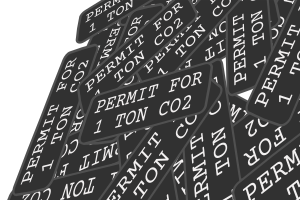
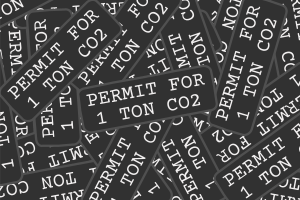
Add perspective to permit footage and move to content.

diff --git a/app/page.tsx b/app/page.tsx
@@ -38,40 +38,14 @@ export default function Home() {
               className="top-left-position"
             />
           </div>
-          <div className="stockpile-permit">
-            <div className="stockpile-container">
-              <div className="stockpile">
-                <Image
-                  src="/stockpile.svg"
-                  alt="Stockpile"
-                  width={3400}
-                  height={1913}
-                />
-              </div>
-            </div>
-            <div className="permit-footage-container">
-              <div className="permit-footage">
-                {/* Background layer - permits */}
-                <Image
-                  src="/permits.png"
-                  alt="Permit footage"
-                  width={300}
-                  height={200}
-                  className="permits-background"
-                />
-                {/* Intermediate layer - analog static/scanlines */}
-                <div className="analog-static"></div>
-                <div className="rolling-line"></div>
-                <div className="rolling-line line-2"></div>
-                {/* Foreground layer - CCTV overlay */}
-                <Image
-                  src="/permits-cctv.svg"
-                  alt="CCTV overlay"
-                  width={131}
-                  height={88}
-                  className="permits-cctv-overlay"
-                />
-              </div>
+          <div className="stockpile-container">
+            <div className="stockpile">
+              <Image
+                src="/stockpile.svg"
+                alt="Stockpile"
+                width={3400}
+                height={1913}
+              />
             </div>
           </div>
         </div>
@@ -222,6 +196,43 @@ export default function Home() {
                 Ban their CO<sub>2</sub>.<br />
                 Burn their permits.
               </h2>
+            </div>
+          </div>
+        </section>
+        <section>
+          <div className="permit-footage-container">
+            <div className="permits-closeup-container">
+              <Image
+                src="/permits-closeup.svg"
+                alt="Permits close-up"
+                width={119}
+                height={134}
+                className="permits-closeup"
+              />
+            </div>
+            <div className="permit-footage">
+              {/* Background layer - permits */}
+              <Image
+                src="/permits.png"
+                alt="Permit footage"
+                width={300}
+                height={200}
+                className="permits-background"
+              />
+              {/* Intermediate layer - vignette */}
+              <div className="vignette-overlay"></div>
+              {/* Intermediate layer - analog static/scanlines */}
+              <div className="analog-static"></div>
+              <div className="rolling-line"></div>
+              <div className="rolling-line line-2"></div>
+              {/* Foreground layer - CCTV overlay */}
+              <Image
+                src="/permits-cctv.svg"
+                alt="CCTV overlay"
+                width={131}
+                height={88}
+                className="permits-cctv-overlay"
+              />
             </div>
           </div>
         </section>

diff --git a/app/globals.css b/app/globals.css
@@ -82,6 +82,7 @@ section {
 .media {
   width: var(--smokestack-width);
   margin-top: -8px;
+  z-index: 0;
 }
 
 .media img,
@@ -96,24 +97,17 @@ section {
   left: 0;
 }
 
-.stockpile-permit {
-  position: relative;
-  width: 100%;
-  height: 2298px;
-}
-
 .stockpile-container {
-  position: absolute;
-  top: -150px;
-  left: -630px;
+  position: relative;
+  margin-top: -150px;
   width: 100%;
   display: flex;
   justify-content: center;
-  z-index: 0;
+  z-index: 99;
 }
 
 .stockpile {
-  margin-left: 1500px;
+  margin-left: 200px;
 }
 
 .stockpile img {
@@ -584,12 +578,35 @@ section {
   }
 }
 
+/* explainer: burn the permits */
+.burn-line {
+  display: flex;
+  justify-content: center;
+  width: 100%;
+}
+
+.burn-line-container {
+  padding-left: clamp(60px, 24%, 220px);
+  padding-top: calc(0.07 * var(--smokestack-height));
+  color: white;
+}
+
 /* Permit Footage Section */
 .permit-footage-container {
-  position: absolute;
-  top: 500px;
-  left: 50px;
-  z-index: 1;
+  width: 100%;
+  margin-top: calc(0.07 * var(--smokestack-height));
+  display: flex;
+  flex-direction: column;
+  align-items: center;
+}
+
+.permits-closeup-container {
+  width: 300px;
+}
+
+.permits-closeup {
+  width: 100%;
+  height: auto;
 }
 
 .permit-footage {
@@ -597,12 +614,29 @@ section {
   width: 300px;
   height: 200px;
   overflow: hidden;
+  margin-top: -20px;
 }
 
 .permits-background {
   width: 100%;
   height: 100%;
   object-fit: cover;
+}
+
+.vignette-overlay {
+  position: absolute;
+  top: 0;
+  left: 0;
+  width: 100%;
+  height: 100%;
+  pointer-events: none;
+  z-index: 1;
+  background: radial-gradient(
+    ellipse 100% 100%,
+    transparent 10%,
+    rgba(49, 49, 49, 1) 55%,
+    rgba(49, 49, 49, 1) 100%
+  );
 }
 
 .permits-cctv-overlay {
@@ -660,17 +694,4 @@ section {
 
 .line-2 {
   animation-delay: 1s;
-}
-
-/* explainer: burn the permits */
-.burn-line {
-  display: flex;
-  justify-content: center;
-  width: 100%;
-}
-
-.burn-line-container {
-  padding-left: clamp(60px, 24%, 220px);
-  padding-top: calc(0.07 * var(--smokestack-height));
-  color: white;
 }
